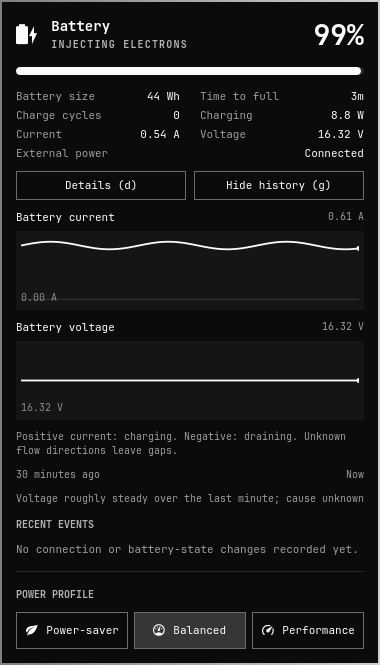
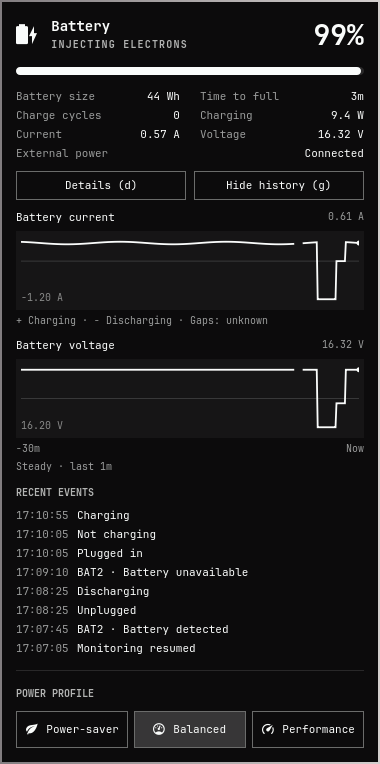
Simplify history notes and align compact event rows

diff --git a/HistoryView.qml b/HistoryView.qml
@@ -10,7 +10,13 @@ Column {
   property var battery: ({})
   property color foreground: Color.foreground
   property string fontFamily: Style.font.family
+  readonly property var recentEvents: (reading.events || []).slice(0, 8)
+  readonly property string singleBatteryId: (snapshot.batteries || []).length === 1 ? snapshot.batteries[0].id : ""
   spacing: Style.space(10)
+
+  Column {
+    width: parent.width
+    spacing: Style.spacing.labelGap
     TrendGraph {
       width: parent.width
       title: "Battery current"
@@ -19,6 +25,21 @@ Column {
       foreground: root.foreground
       points: Diagnostics.series(root.snapshot.history, root.battery.id, "currentA")
     }
+    Text {
+      width: parent.width
+      text: "+ Charging · − Discharging · Gaps: unknown"
+      wrapMode: Text.WordWrap
+      textFormat: Text.PlainText
+      color: root.foreground
+      opacity: 0.6
+      font.family: root.fontFamily
+      font.pixelSize: Style.font.caption
+    }
+  }
+
+  Column {
+    width: parent.width
+    spacing: Style.spacing.labelGap
     TrendGraph {
       width: parent.width
       title: "Battery voltage"
@@ -26,21 +47,12 @@ Column {
       foreground: root.foreground
       points: Diagnostics.series(root.snapshot.history, root.battery.id, "voltageV")
     }
-    Text {
-      width: parent.width
-      text: "Positive current: charging. Negative: draining. Unknown flow directions leave gaps."
-      wrapMode: Text.WordWrap
-      color: root.foreground
-      opacity: 0.6
-      font.family: root.fontFamily
-      font.pixelSize: Style.font.caption
-    }
     Item {
       width: parent.width
       implicitHeight: timeStart.implicitHeight
       Text {
         id: timeStart
-        text: "30 minutes ago"
+        text: "−30m"
         color: root.foreground
         opacity: 0.6
         font.family: root.fontFamily
@@ -59,33 +71,65 @@ Column {
       width: parent.width
       text: Diagnostics.voltageTrend(root.snapshot.history, root.battery.id)
       wrapMode: Text.WordWrap
+      textFormat: Text.PlainText
       color: root.foreground
       opacity: 0.6
       font.family: root.fontFamily
       font.pixelSize: Style.font.caption
     }
+  }
+
+  Column {
+    width: parent.width
+    spacing: Style.spacing.controlGap
     PanelSectionHeader { text: "RECENT EVENTS"; foreground: root.foreground; fontFamily: root.fontFamily }
     Text {
-      visible: !(root.reading.events || []).length
+      visible: !root.recentEvents.length
       width: parent.width
-      text: "No connection or battery-state changes recorded yet."
-      wrapMode: Text.WordWrap
+      text: "No recent changes."
       color: root.foreground
       opacity: 0.6
       font.family: root.fontFamily
       font.pixelSize: Style.font.bodySmall
     }
-    Repeater {
-      model: (root.reading.events || []).slice(0, 8)
-      Text {
-        required property var modelData
-        width: root.width
-        text: Qt.formatDateTime(new Date(modelData.timestamp * 1000), "HH:mm:ss") + "  " + modelData.label
-        wrapMode: Text.WordWrap
-        textFormat: Text.PlainText
-        color: root.foreground
-        font.family: root.fontFamily
-        font.pixelSize: Style.font.bodySmall
+    FontMetrics {
+      id: eventFont
+      font.family: root.fontFamily
+      font.pixelSize: Style.font.bodySmall
+    }
+    Column {
+      visible: root.recentEvents.length > 0
+      width: parent.width
+      spacing: Style.spacing.labelGap
+      Repeater {
+        model: root.recentEvents
+        Item {
+          required property var modelData
+          width: parent.width
+          implicitHeight: Math.max(eventTime.implicitHeight, eventText.implicitHeight)
+          Text {
+            id: eventTime
+            width: Math.ceil(eventFont.advanceWidth("00:00:00"))
+            text: Qt.formatDateTime(new Date(modelData.timestamp * 1000), "HH:mm:ss")
+            color: root.foreground
+            opacity: 0.6
+            font.family: root.fontFamily
+            font.pixelSize: Style.font.bodySmall
+          }
+          Text {
+            id: eventText
+            anchors.left: eventTime.right
+            anchors.leftMargin: Style.spacing.controlGap
+            anchors.right: parent.right
+            text: Diagnostics.eventLabel(modelData, root.singleBatteryId)
+            wrapMode: Text.WordWrap
+            textFormat: Text.PlainText
+            color: root.foreground
+            font.family: root.fontFamily
+            font.pixelSize: Style.font.bodySmall
+          }
+        }
       }
     }
+  }
 }

diff --git a/Diagnostics.js b/Diagnostics.js
@@ -158,9 +158,9 @@ function series(history, id, field) {
 
 function voltageTrend(history, id) {
   var points = series(history, id, "voltageV")
-  if (points.length < 2) return "Collecting voltage history"
+  if (points.length < 2) return "Collecting trend…"
   var last = points[points.length - 1]
-  if (!known(last.value)) return "Voltage sensor unavailable"
+  if (!known(last.value)) return "Trend unavailable"
   var first = null
   var previous = last
   for (var i = points.length - 2; i >= 0; i--) {
@@ -168,12 +168,34 @@ function voltageTrend(history, id) {
     if (last.timestamp - points[i].timestamp >= 60) { first = points[i]; break }
     previous = points[i]
   }
-  if (!first) return "Collecting voltage history"
+  if (!first) return "Collecting trend…"
   var delta = last.value - first.value
-  return "Voltage " + (Math.abs(delta) < 0.08 ? "roughly steady" : delta > 0 ? "rising" : "falling") + " over the last minute; cause unknown"
+  return (Math.abs(delta) < 0.08 ? "Steady" : delta > 0 ? "Rising" : "Falling") + " · last 1m"
+}
+
+// Format existing history without changing the recorded event or its meaning.
+// Keep battery IDs when several packs are present or an event concerns another pack.
+function eventLabel(event, singleBatteryId) {
+  var label = String(event && event.label || "")
+  var kind = event && event.kind
+  if (kind === "ac") {
+    if (label === "External power connected") return "Plugged in"
+    if (label === "External power disconnected") return "Unplugged"
+  }
+  if (kind === "gap") return "Monitoring resumed"
+  var parts = kind === "state" || kind === "battery" ? /^([^:]+):\s*(.*)$/.exec(label) : null
+  if (!parts) return label
+  var words = {
+    "Unknown": "State unknown",
+    "Pending discharge": "Discharge pending",
+    "battery detected": "Battery detected",
+    "battery removed": "Battery unavailable"
+  }
+  var text = Object.prototype.hasOwnProperty.call(words, parts[2]) ? words[parts[2]] : parts[2]
+  return (parts[1] === singleBatteryId ? "" : parts[1] + " · ") + text
 }
 
 if (typeof module !== "undefined") module.exports = {
   known: known, batteryIn: batteryIn, classify: classify, view: view,
-  duration: duration, metric: metric, amps: amps, series: series, voltageTrend: voltageTrend
+  duration: duration, metric: metric, amps: amps, series: series, voltageTrend: voltageTrend, eventLabel: eventLabel
 }

diff --git a/tests/diagnostics.test.js b/tests/diagnostics.test.js
@@ -131,10 +131,10 @@ test('unknown graph direction is a gap, not an invented charge/discharge line', 
   assert.equal(d.series([sample({currentA: null})], 'BAT1', 'currentA')[0].value, null);
 });
 test('voltage trend requires a minute of evidence and never diagnoses recovery', () => {
-  assert.equal(d.voltageTrend([sample()], 'BAT1'), 'Collecting voltage history');
+  assert.equal(d.voltageTrend([sample()], 'BAT1'), 'Collecting trend…');
   const history = Array.from({length: 13}, (_, i) => sample({voltageV: 14 + i / 12}, {timestamp: 40 + i * 5}));
-  assert.match(d.voltageTrend(history, 'BAT1'), /rising.*cause unknown/);
-  assert.equal(d.voltageTrend([history[0], history[12]], 'BAT1'), 'Collecting voltage history');
+  assert.equal(d.voltageTrend(history, 'BAT1'), 'Rising · last 1m');
+  assert.equal(d.voltageTrend([history[0], history[12]], 'BAT1'), 'Collecting trend…');
 });
 test('null and zero stay distinct in formatting', () => {
   assert.equal(d.metric(null, 'A'), 'Unavailable');
